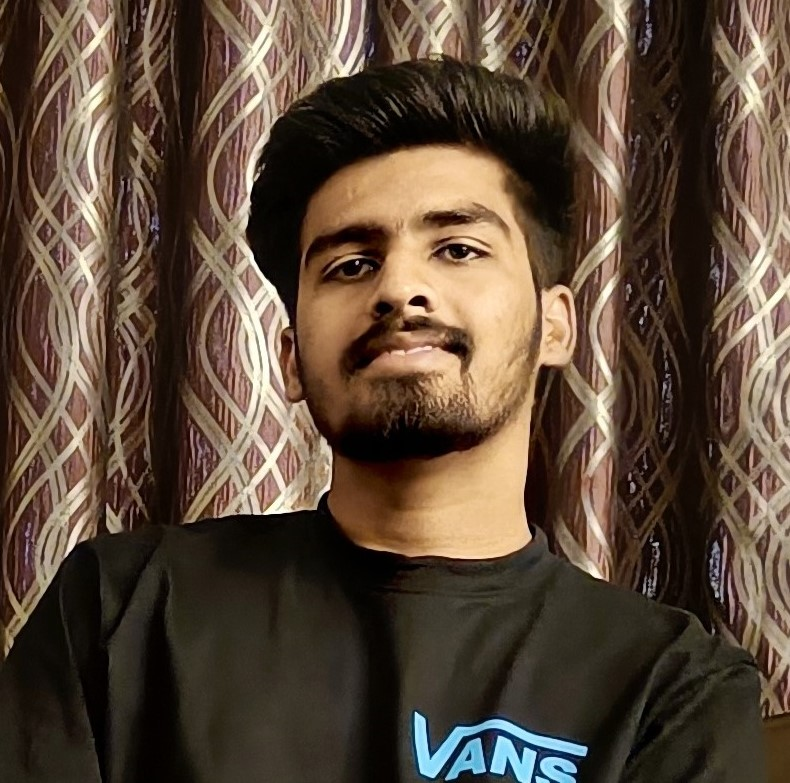
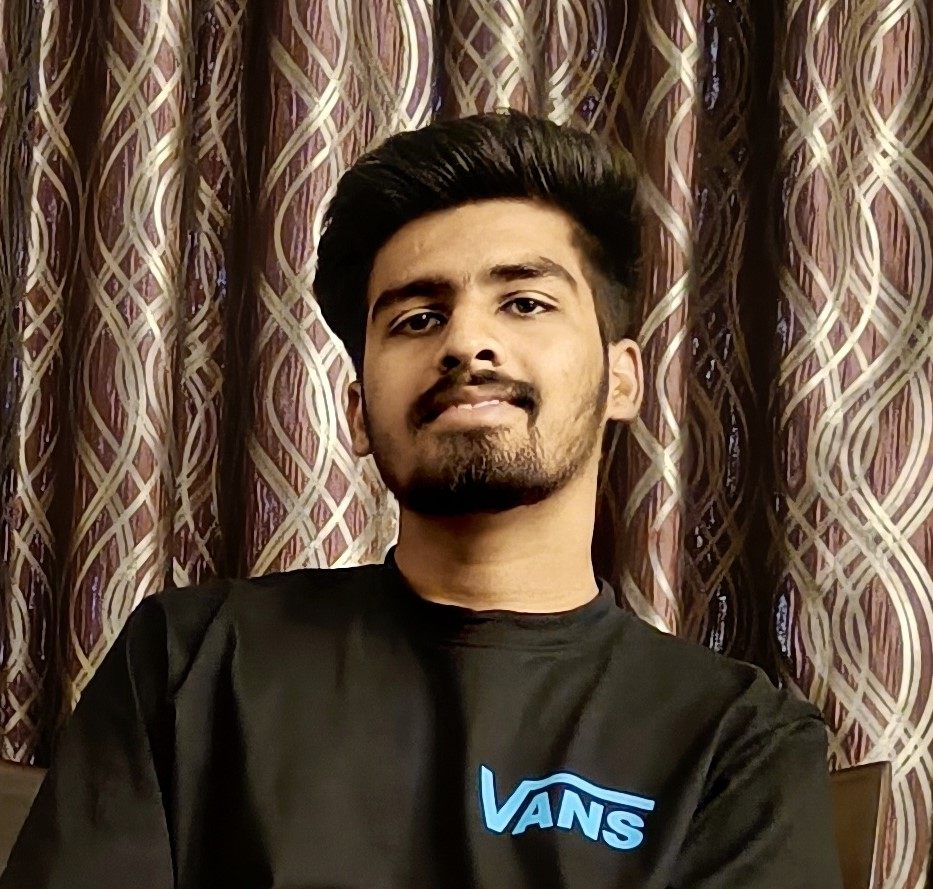
install dependencies

diff --git a/portfolio_nextjs/src/app/page.js b/portfolio_nextjs/src/app/page.js
@@ -103,25 +103,22 @@ export default function Home() {
   };
   return (
     <div className="min-h-screen bg-white dark:bg-black text-black dark:text-white transition-colors duration-300">
-      <div className="mx-auto max-w-4xl px-4 py-10 "> 
-        {/* py-20 */}
+      <div className="mx-auto max-w-4xl px-4 py-20 ">
         <motion.header
-          // id="home"
+          id="home"
           initial={{ opacity: 0, x: -100 }}
           animate={{ opacity: 1, x: 0 }}
           transition={{ duration: 0.8 }}
           className="flex items-center justify-between mb-12"
         >
-          <div className="w-35 h-35 rounded-full overflow-hidden">
-            {/* w-20 h-20 */}
+          <div className="w-20 h-20 rounded-full overflow-hidden">
             <Image
               src="/profile.jpeg"
               className="cursor-pointer transition-all duration-300 hover:scale-110"
               alt="Profile Picture"
-              width={200}
-              height={150}
+              width={100}
+              height={100}
             />
-            {/* width={100} height={100} */}
           </div>
 
           {/* <nav>
